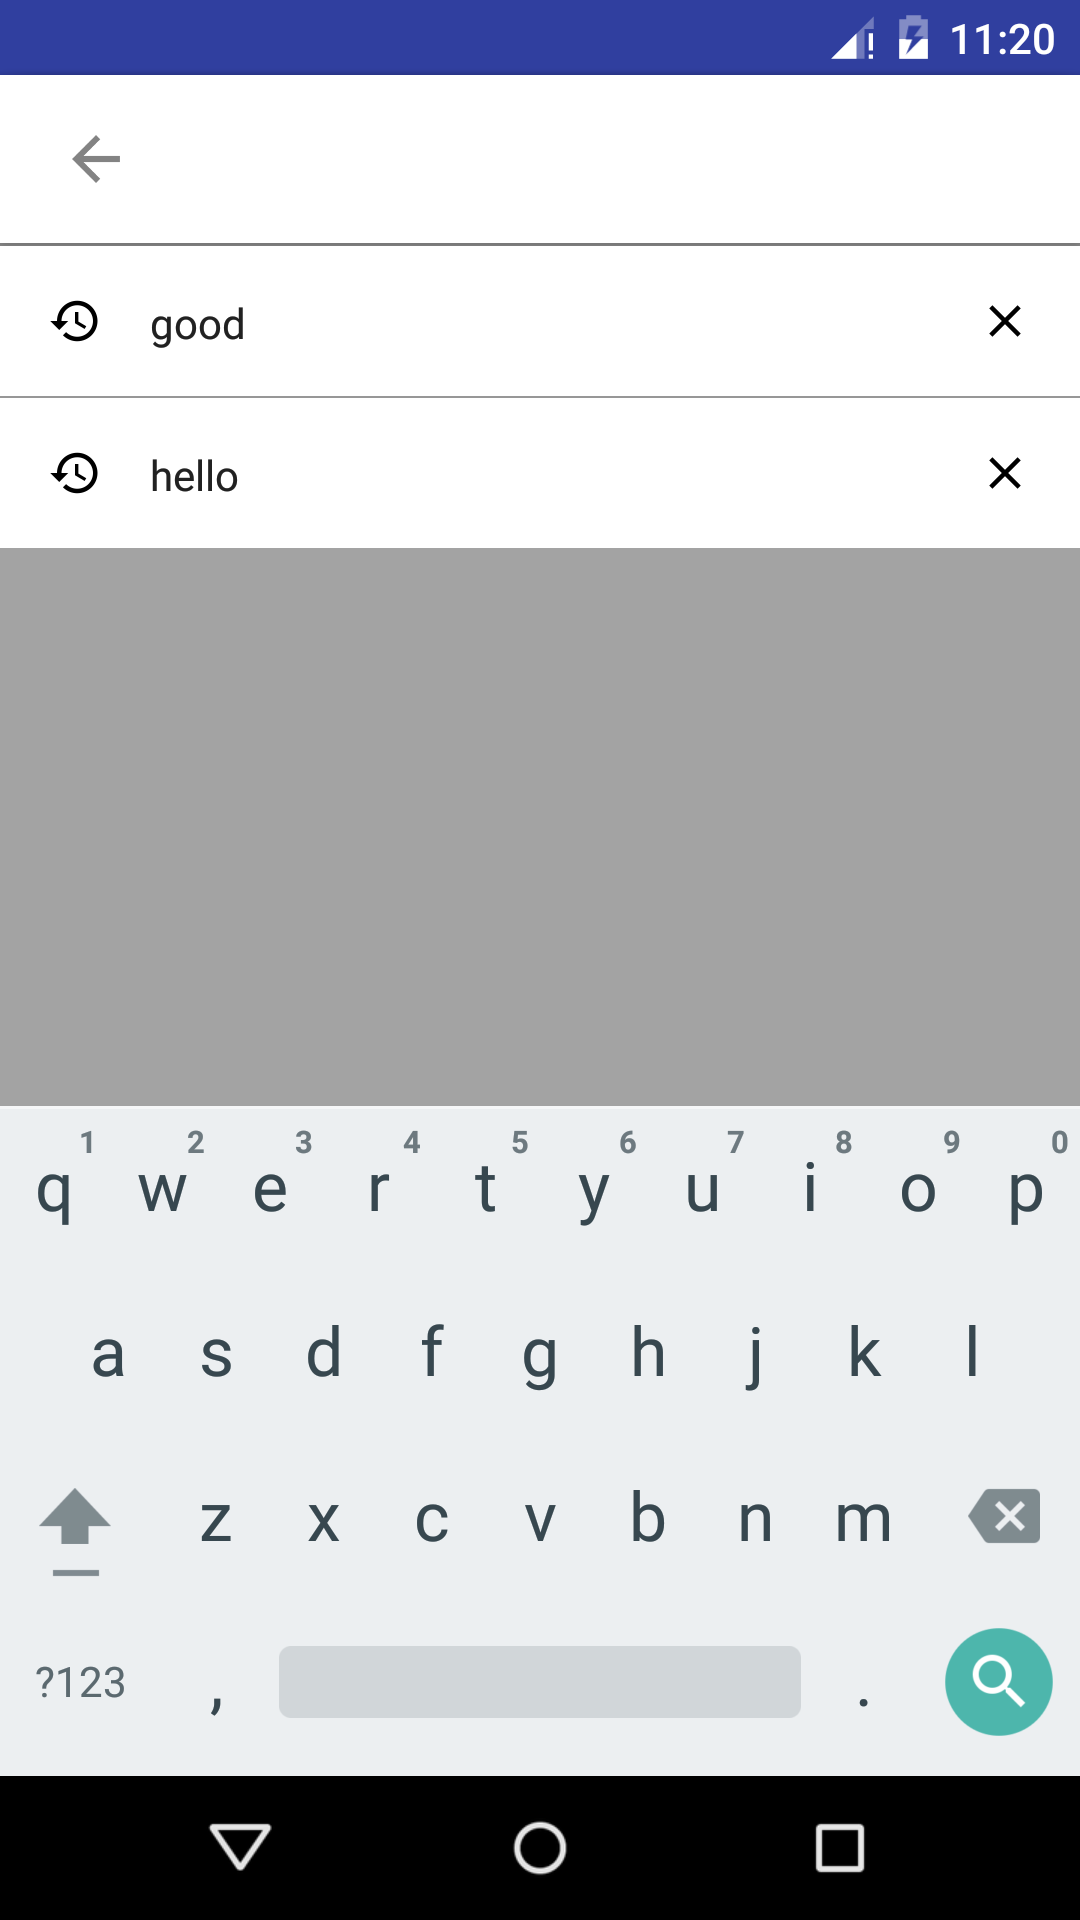
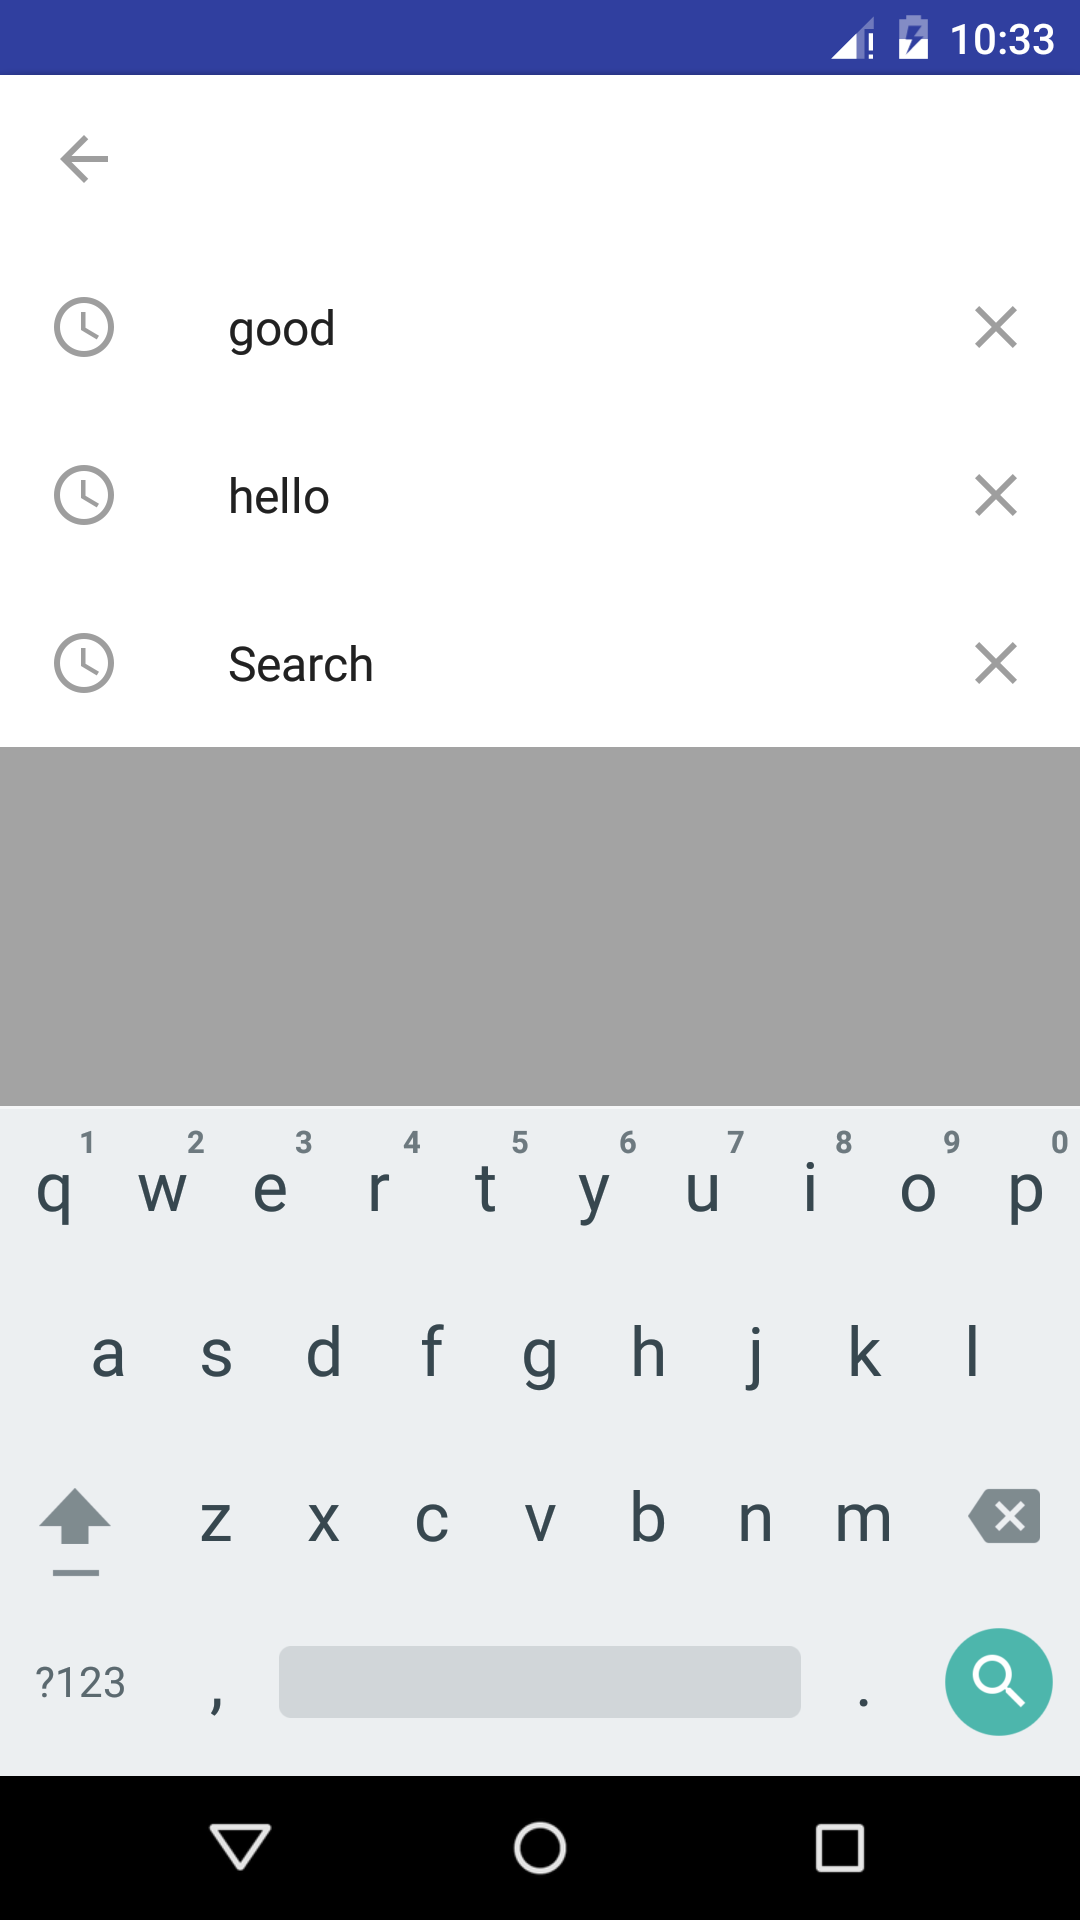
fix: change to md spec

diff --git a/mysearchview/src/main/java/com/hustunique/jianguo/materialsearchview/MaterialSearchView.java b/mysearchview/src/main/java/com/hustunique/jianguo/materialsearchview/MaterialSearchView.java
@@ -254,7 +254,7 @@ public class MaterialSearchView extends FrameLayout implements View.OnClickListe
         mSuggestions.setNestedScrollingEnabled(false);
         mSuggestions.setLayoutManager(new LinearLayoutManager(mContext));
         mSuggestions.setItemAnimator(null);
-        mSuggestions.addItemDecoration(new SearchViewDivider(mContext));
+//        mSuggestions.addItemDecoration(new SearchViewDivider(mContext));
         mSuggestions.setAdapter(mAdapter);
     }
 
@@ -496,7 +496,7 @@ public class MaterialSearchView extends FrameLayout implements View.OnClickListe
             setQuery(ss.query, false);
             mInputEditText.requestFocus();
         }
-        super.onRestoreInstanceState(state);
+        super.onRestoreInstanceState(ss.getSuperState());
         requestLayout();
     }
 
